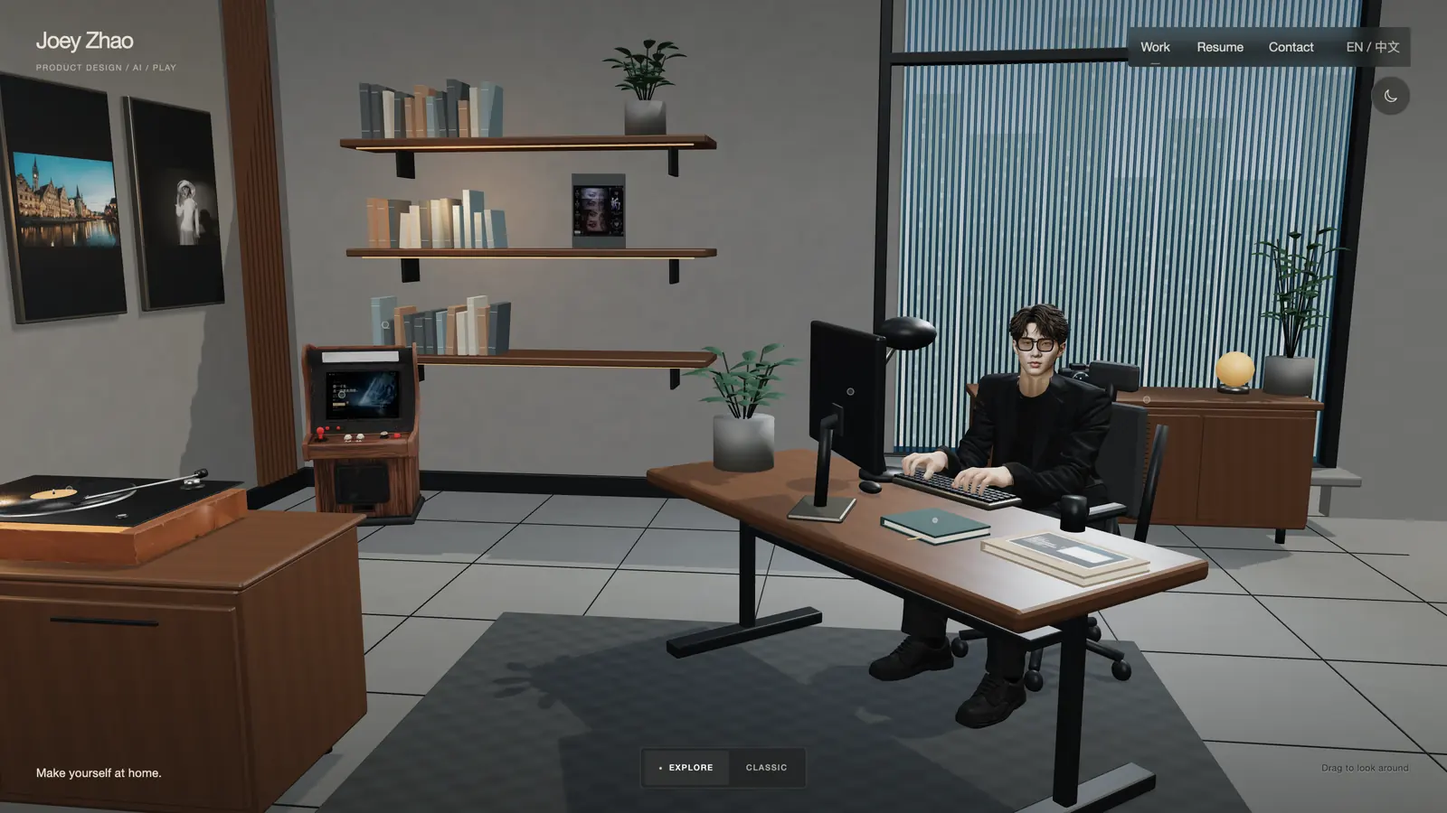
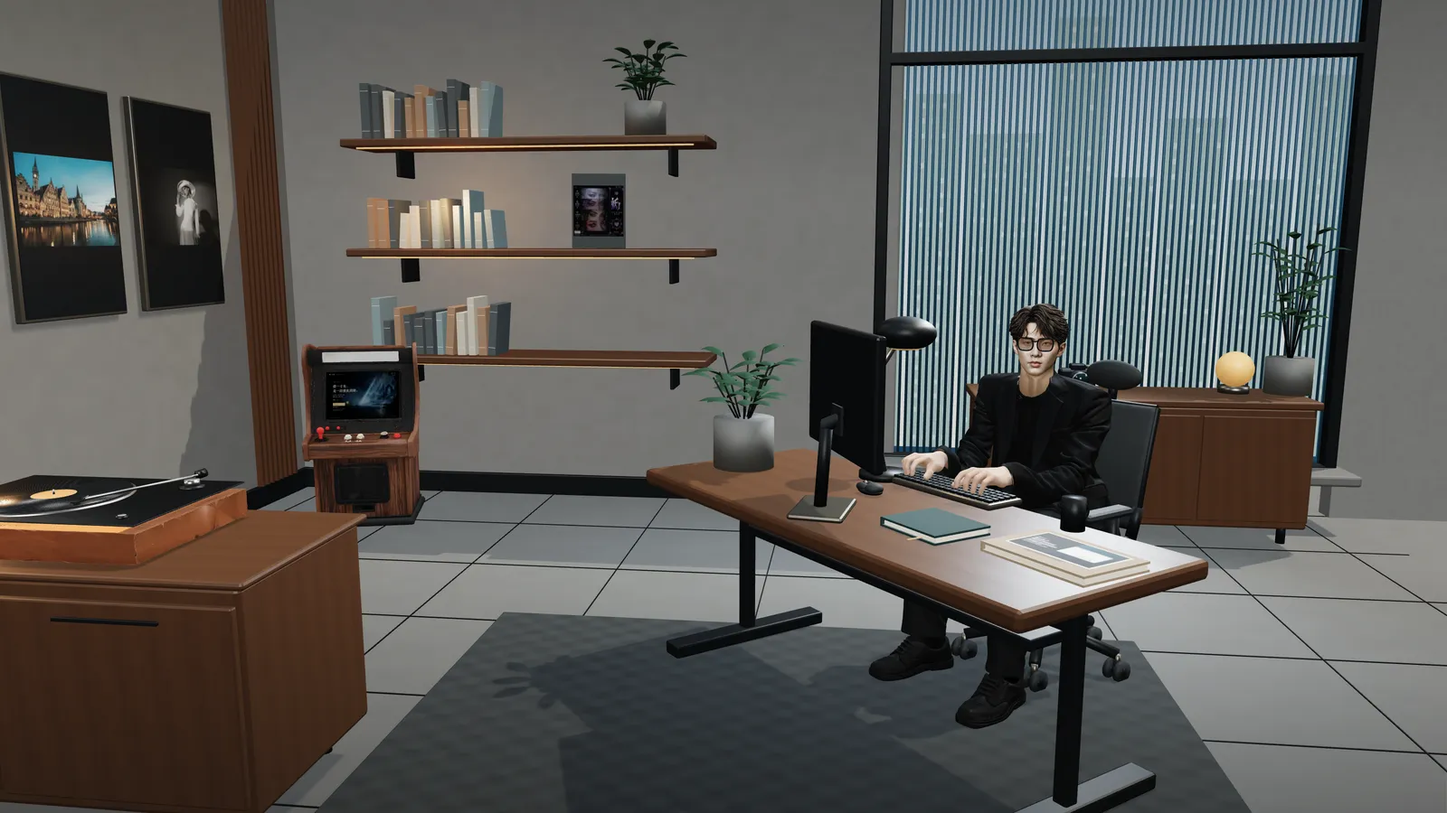
assets: swap joeyzhao.cc card thumbnail to daytime explore scene, bump ?v=2

diff --git a/index.html b/index.html
@@ -156,7 +156,7 @@
       </div>
     </a>
     <a class="door" href="/studio/" style="--accent:var(--studio)">
-      <div class="door-media framed" aria-hidden="true"><img class="is-on" src="/assets/site/img/joeyzhao-live.webp" alt="" fetchpriority="high" decoding="async"><img src="/assets/site/img/finfold-live.webp" alt="" loading="lazy" decoding="async"><img src="/assets/site/img/billvampire-live.webp" alt="" loading="lazy" decoding="async"></div>
+      <div class="door-media framed" aria-hidden="true"><img class="is-on" src="/assets/site/img/joeyzhao-live.webp?v=2" alt="" fetchpriority="high" decoding="async"><img src="/assets/site/img/finfold-live.webp" alt="" loading="lazy" decoding="async"><img src="/assets/site/img/billvampire-live.webp" alt="" loading="lazy" decoding="async"></div>
       <div class="door-top"><span class="label"><span class="dot s"></span>&nbsp; [B] Product Studio</span><span class="door-count">01 / 03</span></div>
       <div>
         <p class="door-for">给创业者与企业</p>
@@ -179,8 +179,8 @@
       <p class="lead" data-reveal>左边是我们自己设计、开发、上线的产品；右边是学员在导师带领下完成的作品集项目</p>
     </div>
     <div class="tabs" data-filter="#work-index" role="group" aria-label="筛选"><button data-f="all" aria-pressed="true">全部</button><button data-f="s" aria-pressed="false"><span class="dot s"></span>产品工作室</button><button data-f="a" aria-pressed="false"><span class="dot a"></span>作品集学院</button></div>
-    <div class="index" id="work-index"><a class="row" data-k="s" data-b="s" data-img="/assets/site/img/finfold-live.webp" href="https://finfold.app" target="_blank" rel="noopener" data-label="Finfold"><span class="row-n">01</span><span class="row-t">Finfold</span><span class="row-c">AI 营销 SaaS</span><span class="row-b"><span class="dot s"></span>工作室 · 自研</span><span class="row-y">2026</span><span class="row-a">↗</span></a><a class="row" data-k="a" data-b="a" data-img="/assets/work/sm/wearable-memory.webp" href="/academy/#gallery"><span class="row-n">02</span><span class="row-t">心理治疗可穿戴装置</span><span class="row-c">工业产品</span><span class="row-b"><span class="dot a"></span>学院 · 学员</span><span class="row-y">作品集</span><span class="row-a">↗</span></a><a class="row" data-k="s" data-b="s" data-img="/assets/site/img/billvampire-live.webp" href="https://billvampire.com" target="_blank" rel="noopener" data-label="BillVampire"><span class="row-n">03</span><span class="row-t">BillVampire</span><span class="row-c">AI 分账工具</span><span class="row-b"><span class="dot s"></span>工作室 · 自研</span><span class="row-y">2025</span><span class="row-a">↗</span></a><a class="row" data-k="a" data-b="a" data-img="/assets/work/sm/e-motorcycle.webp" href="/academy/#gallery"><span class="row-n">04</span><span class="row-t">电动摩托概念设计</span><span class="row-c">交通载具</span><span class="row-b"><span class="dot a"></span>学院 · 学员</span><span class="row-y">作品集</span><span class="row-a">↗</span></a><a class="row" data-k="a" data-b="a" data-img="/assets/work/sm/mars-research.webp" href="/academy/#gallery"><span class="row-n">05</span><span class="row-t">火星殖民居住研究</span><span class="row-c">建筑空间</span><span class="row-b"><span class="dot a"></span>学院 · 学员</span><span class="row-y">作品集</span><span class="row-a">↗</span></a><a class="row" data-k="s" data-b="s" data-img="/assets/site/img/joeyzhao-live.webp" href="https://joeyzhao.cc" target="_blank" rel="noopener" data-label="joeyzhao.cc"><span class="row-n">06</span><span class="row-t">joeyzhao.cc</span><span class="row-c">3D 交互网站</span><span class="row-b"><span class="dot s"></span>工作室 · 自研</span><span class="row-y">2025</span><span class="row-a">↗</span></a><a class="row" data-k="a" data-b="a" data-img="/assets/work/sm/dance-video-app.webp" href="/academy/#gallery"><span class="row-n">07</span><span class="row-t">舞蹈短视频剪辑 App</span><span class="row-c">交互体验</span><span class="row-b"><span class="dot a"></span>学院 · 学员</span><span class="row-y">作品集</span><span class="row-a">↗</span></a><a class="row" data-k="a" data-b="a" data-img="/assets/work/sm/zeon-identity.webp" href="/academy/#gallery"><span class="row-n">08</span><span class="row-t">ZEON 品牌识别</span><span class="row-c">视觉媒体</span><span class="row-b"><span class="dot a"></span>学院 · 学员</span><span class="row-y">作品集</span><span class="row-a">↗</span></a></div>
-    <div class="mosaic"><a class="tile w7" href="https://finfold.app" target="_blank" rel="noopener" data-label="Finfold" data-reveal><div class="tile-m" style="--r:1249/703"><img src="/assets/site/img/finfold-live.webp" width="1249" height="703" alt="Finfold" loading="lazy" decoding="async"></div><div class="tile-cap"><h3>Finfold — AI 营销 SaaS</h3><span class="label"><span class="dot s"></span>自研产品</span></div></a><a class="tile w5 push" href="/academy/#gallery" data-reveal><div class="tile-m" style="--r:900/601"><img src="/assets/work/sm/wearable-memory.webp" width="900" height="601" alt="心理治疗可穿戴装置" loading="lazy" decoding="async"></div><div class="tile-cap"><h3>心理治疗可穿戴装置</h3><span class="label"><span class="dot a"></span>学员作品 · 工业产品</span></div></a><a class="tile w5" href="/academy/#gallery" data-reveal><div class="tile-m" style="--r:900/685"><img src="/assets/work/sm/mars-research.webp" width="900" height="685" alt="火星殖民居住研究" loading="lazy" decoding="async"></div><div class="tile-cap"><h3>火星殖民居住研究</h3><span class="label"><span class="dot a"></span>学员作品 · 建筑空间</span></div></a><a class="tile w7 push" href="https://joeyzhao.cc" target="_blank" rel="noopener" data-label="joeyzhao.cc" data-reveal><div class="tile-m" style="--r:1600/900"><img src="/assets/site/img/joeyzhao-live.webp" width="1600" height="900" alt="joeyzhao.cc" loading="lazy" decoding="async"></div><div class="tile-cap"><h3>joeyzhao.cc — 3D 交互网站</h3><span class="label"><span class="dot s"></span>自研产品</span></div></a><a class="tile w6" href="https://billvampire.com" target="_blank" rel="noopener" data-label="BillVampire" data-reveal><div class="tile-m" style="--r:1266/712"><img src="/assets/site/img/billvampire-live.webp" width="1266" height="712" alt="BillVampire" loading="lazy" decoding="async"></div><div class="tile-cap"><h3>BillVampire — AI 分账工具</h3><span class="label"><span class="dot s"></span>自研产品</span></div></a><a class="tile w6 push" href="/academy/#gallery" data-reveal><div class="tile-m" style="--r:900/390"><img src="/assets/work/sm/e-motorcycle.webp" width="900" height="390" alt="电动摩托概念设计" loading="lazy" decoding="async"></div><div class="tile-cap"><h3>电动摩托概念设计</h3><span class="label"><span class="dot a"></span>学员作品 · 交通载具</span></div></a></div>
+    <div class="index" id="work-index"><a class="row" data-k="s" data-b="s" data-img="/assets/site/img/finfold-live.webp" href="https://finfold.app" target="_blank" rel="noopener" data-label="Finfold"><span class="row-n">01</span><span class="row-t">Finfold</span><span class="row-c">AI 营销 SaaS</span><span class="row-b"><span class="dot s"></span>工作室 · 自研</span><span class="row-y">2026</span><span class="row-a">↗</span></a><a class="row" data-k="a" data-b="a" data-img="/assets/work/sm/wearable-memory.webp" href="/academy/#gallery"><span class="row-n">02</span><span class="row-t">心理治疗可穿戴装置</span><span class="row-c">工业产品</span><span class="row-b"><span class="dot a"></span>学院 · 学员</span><span class="row-y">作品集</span><span class="row-a">↗</span></a><a class="row" data-k="s" data-b="s" data-img="/assets/site/img/billvampire-live.webp" href="https://billvampire.com" target="_blank" rel="noopener" data-label="BillVampire"><span class="row-n">03</span><span class="row-t">BillVampire</span><span class="row-c">AI 分账工具</span><span class="row-b"><span class="dot s"></span>工作室 · 自研</span><span class="row-y">2025</span><span class="row-a">↗</span></a><a class="row" data-k="a" data-b="a" data-img="/assets/work/sm/e-motorcycle.webp" href="/academy/#gallery"><span class="row-n">04</span><span class="row-t">电动摩托概念设计</span><span class="row-c">交通载具</span><span class="row-b"><span class="dot a"></span>学院 · 学员</span><span class="row-y">作品集</span><span class="row-a">↗</span></a><a class="row" data-k="a" data-b="a" data-img="/assets/work/sm/mars-research.webp" href="/academy/#gallery"><span class="row-n">05</span><span class="row-t">火星殖民居住研究</span><span class="row-c">建筑空间</span><span class="row-b"><span class="dot a"></span>学院 · 学员</span><span class="row-y">作品集</span><span class="row-a">↗</span></a><a class="row" data-k="s" data-b="s" data-img="/assets/site/img/joeyzhao-live.webp?v=2" href="https://joeyzhao.cc" target="_blank" rel="noopener" data-label="joeyzhao.cc"><span class="row-n">06</span><span class="row-t">joeyzhao.cc</span><span class="row-c">3D 交互网站</span><span class="row-b"><span class="dot s"></span>工作室 · 自研</span><span class="row-y">2025</span><span class="row-a">↗</span></a><a class="row" data-k="a" data-b="a" data-img="/assets/work/sm/dance-video-app.webp" href="/academy/#gallery"><span class="row-n">07</span><span class="row-t">舞蹈短视频剪辑 App</span><span class="row-c">交互体验</span><span class="row-b"><span class="dot a"></span>学院 · 学员</span><span class="row-y">作品集</span><span class="row-a">↗</span></a><a class="row" data-k="a" data-b="a" data-img="/assets/work/sm/zeon-identity.webp" href="/academy/#gallery"><span class="row-n">08</span><span class="row-t">ZEON 品牌识别</span><span class="row-c">视觉媒体</span><span class="row-b"><span class="dot a"></span>学院 · 学员</span><span class="row-y">作品集</span><span class="row-a">↗</span></a></div>
+    <div class="mosaic"><a class="tile w7" href="https://finfold.app" target="_blank" rel="noopener" data-label="Finfold" data-reveal><div class="tile-m" style="--r:1249/703"><img src="/assets/site/img/finfold-live.webp" width="1249" height="703" alt="Finfold" loading="lazy" decoding="async"></div><div class="tile-cap"><h3>Finfold — AI 营销 SaaS</h3><span class="label"><span class="dot s"></span>自研产品</span></div></a><a class="tile w5 push" href="/academy/#gallery" data-reveal><div class="tile-m" style="--r:900/601"><img src="/assets/work/sm/wearable-memory.webp" width="900" height="601" alt="心理治疗可穿戴装置" loading="lazy" decoding="async"></div><div class="tile-cap"><h3>心理治疗可穿戴装置</h3><span class="label"><span class="dot a"></span>学员作品 · 工业产品</span></div></a><a class="tile w5" href="/academy/#gallery" data-reveal><div class="tile-m" style="--r:900/685"><img src="/assets/work/sm/mars-research.webp" width="900" height="685" alt="火星殖民居住研究" loading="lazy" decoding="async"></div><div class="tile-cap"><h3>火星殖民居住研究</h3><span class="label"><span class="dot a"></span>学员作品 · 建筑空间</span></div></a><a class="tile w7 push" href="https://joeyzhao.cc" target="_blank" rel="noopener" data-label="joeyzhao.cc" data-reveal><div class="tile-m" style="--r:1600/900"><img src="/assets/site/img/joeyzhao-live.webp?v=2" width="1600" height="900" alt="joeyzhao.cc" loading="lazy" decoding="async"></div><div class="tile-cap"><h3>joeyzhao.cc — 3D 交互网站</h3><span class="label"><span class="dot s"></span>自研产品</span></div></a><a class="tile w6" href="https://billvampire.com" target="_blank" rel="noopener" data-label="BillVampire" data-reveal><div class="tile-m" style="--r:1266/712"><img src="/assets/site/img/billvampire-live.webp" width="1266" height="712" alt="BillVampire" loading="lazy" decoding="async"></div><div class="tile-cap"><h3>BillVampire — AI 分账工具</h3><span class="label"><span class="dot s"></span>自研产品</span></div></a><a class="tile w6 push" href="/academy/#gallery" data-reveal><div class="tile-m" style="--r:900/390"><img src="/assets/work/sm/e-motorcycle.webp" width="900" height="390" alt="电动摩托概念设计" loading="lazy" decoding="async"></div><div class="tile-cap"><h3>电动摩托概念设计</h3><span class="label"><span class="dot a"></span>学员作品 · 交通载具</span></div></a></div>
   </div>
   <div class="peek" aria-hidden="true"><img alt=""></div>
 </section>

diff --git a/en/index.html b/en/index.html
@@ -156,7 +156,7 @@
       </div>
     </a>
     <a class="door" href="/en/studio/" style="--accent:var(--studio)">
-      <div class="door-media framed" aria-hidden="true"><img class="is-on" src="/assets/site/img/joeyzhao-live.webp" alt="" fetchpriority="high" decoding="async"><img src="/assets/site/img/finfold-live.webp" alt="" loading="lazy" decoding="async"><img src="/assets/site/img/billvampire-live.webp" alt="" loading="lazy" decoding="async"></div>
+      <div class="door-media framed" aria-hidden="true"><img class="is-on" src="/assets/site/img/joeyzhao-live.webp?v=2" alt="" fetchpriority="high" decoding="async"><img src="/assets/site/img/finfold-live.webp" alt="" loading="lazy" decoding="async"><img src="/assets/site/img/billvampire-live.webp" alt="" loading="lazy" decoding="async"></div>
       <div class="door-top"><span class="label"><span class="dot s"></span>&nbsp; [B] Product Studio</span><span class="door-count">01 / 03</span></div>
       <div>
         <p class="door-for">For founders and companies</p>
@@ -179,8 +179,8 @@
       <p class="lead" data-reveal>Products we designed, built and shipped ourselves — alongside portfolio projects our students made with their mentors</p>
     </div>
     <div class="tabs" data-filter="#work-index" role="group" aria-label="Filter"><button data-f="all" aria-pressed="true">All</button><button data-f="s" aria-pressed="false"><span class="dot s"></span>Studio</button><button data-f="a" aria-pressed="false"><span class="dot a"></span>Academy</button></div>
-    <div class="index" id="work-index"><a class="row" data-k="s" data-b="s" data-img="/assets/site/img/finfold-live.webp" href="https://finfold.app" target="_blank" rel="noopener" data-label="Finfold"><span class="row-n">01</span><span class="row-t">Finfold</span><span class="row-c">AI marketing SaaS</span><span class="row-b"><span class="dot s"></span>Studio</span><span class="row-y">2026</span><span class="row-a">↗</span></a><a class="row" data-k="a" data-b="a" data-img="/assets/work/sm/wearable-memory.webp" href="/en/academy/#gallery"><span class="row-n">02</span><span class="row-t">Therapeutic wearable</span><span class="row-c">Product</span><span class="row-b"><span class="dot a"></span>Academy</span><span class="row-y">Student</span><span class="row-a">↗</span></a><a class="row" data-k="s" data-b="s" data-img="/assets/site/img/billvampire-live.webp" href="https://billvampire.com" target="_blank" rel="noopener" data-label="BillVampire"><span class="row-n">03</span><span class="row-t">BillVampire</span><span class="row-c">AI bill splitting</span><span class="row-b"><span class="dot s"></span>Studio</span><span class="row-y">2025</span><span class="row-a">↗</span></a><a class="row" data-k="a" data-b="a" data-img="/assets/work/sm/e-motorcycle.webp" href="/en/academy/#gallery"><span class="row-n">04</span><span class="row-t">Electric motorcycle concept</span><span class="row-c">Transportation</span><span class="row-b"><span class="dot a"></span>Academy</span><span class="row-y">Student</span><span class="row-a">↗</span></a><a class="row" data-k="a" data-b="a" data-img="/assets/work/sm/mars-research.webp" href="/en/academy/#gallery"><span class="row-n">05</span><span class="row-t">Mars habitation research</span><span class="row-c">Architecture</span><span class="row-b"><span class="dot a"></span>Academy</span><span class="row-y">Student</span><span class="row-a">↗</span></a><a class="row" data-k="s" data-b="s" data-img="/assets/site/img/joeyzhao-live.webp" href="https://joeyzhao.cc" target="_blank" rel="noopener" data-label="joeyzhao.cc"><span class="row-n">06</span><span class="row-t">joeyzhao.cc</span><span class="row-c">3D interactive site</span><span class="row-b"><span class="dot s"></span>Studio</span><span class="row-y">2025</span><span class="row-a">↗</span></a><a class="row" data-k="a" data-b="a" data-img="/assets/work/sm/dance-video-app.webp" href="/en/academy/#gallery"><span class="row-n">07</span><span class="row-t">Dance video editing app</span><span class="row-c">Interaction</span><span class="row-b"><span class="dot a"></span>Academy</span><span class="row-y">Student</span><span class="row-a">↗</span></a><a class="row" data-k="a" data-b="a" data-img="/assets/work/sm/zeon-identity.webp" href="/en/academy/#gallery"><span class="row-n">08</span><span class="row-t">ZEON brand identity</span><span class="row-c">Visual &amp; media</span><span class="row-b"><span class="dot a"></span>Academy</span><span class="row-y">Student</span><span class="row-a">↗</span></a></div>
-    <div class="mosaic"><a class="tile w7" href="https://finfold.app" target="_blank" rel="noopener" data-label="Finfold" data-reveal><div class="tile-m" style="--r:1249/703"><img src="/assets/site/img/finfold-live.webp" width="1249" height="703" alt="Finfold" loading="lazy" decoding="async"></div><div class="tile-cap"><h3>Finfold — AI marketing SaaS</h3><span class="label"><span class="dot s"></span>Own product</span></div></a><a class="tile w5 push" href="/en/academy/#gallery" data-reveal><div class="tile-m" style="--r:900/601"><img src="/assets/work/sm/wearable-memory.webp" width="900" height="601" alt="Therapeutic wearable" loading="lazy" decoding="async"></div><div class="tile-cap"><h3>Therapeutic wearable</h3><span class="label"><span class="dot a"></span>Student work · Product</span></div></a><a class="tile w5" href="/en/academy/#gallery" data-reveal><div class="tile-m" style="--r:900/685"><img src="/assets/work/sm/mars-research.webp" width="900" height="685" alt="Mars habitation research" loading="lazy" decoding="async"></div><div class="tile-cap"><h3>Mars habitation research</h3><span class="label"><span class="dot a"></span>Student work · Architecture</span></div></a><a class="tile w7 push" href="https://joeyzhao.cc" target="_blank" rel="noopener" data-label="joeyzhao.cc" data-reveal><div class="tile-m" style="--r:1600/900"><img src="/assets/site/img/joeyzhao-live.webp" width="1600" height="900" alt="joeyzhao.cc" loading="lazy" decoding="async"></div><div class="tile-cap"><h3>joeyzhao.cc — 3D interactive site</h3><span class="label"><span class="dot s"></span>Own product</span></div></a><a class="tile w6" href="https://billvampire.com" target="_blank" rel="noopener" data-label="BillVampire" data-reveal><div class="tile-m" style="--r:1266/712"><img src="/assets/site/img/billvampire-live.webp" width="1266" height="712" alt="BillVampire" loading="lazy" decoding="async"></div><div class="tile-cap"><h3>BillVampire — AI bill splitting</h3><span class="label"><span class="dot s"></span>Own product</span></div></a><a class="tile w6 push" href="/en/academy/#gallery" data-reveal><div class="tile-m" style="--r:900/390"><img src="/assets/work/sm/e-motorcycle.webp" width="900" height="390" alt="Electric motorcycle concept" loading="lazy" decoding="async"></div><div class="tile-cap"><h3>Electric motorcycle concept</h3><span class="label"><span class="dot a"></span>Student work · Transportation</span></div></a></div>
+    <div class="index" id="work-index"><a class="row" data-k="s" data-b="s" data-img="/assets/site/img/finfold-live.webp" href="https://finfold.app" target="_blank" rel="noopener" data-label="Finfold"><span class="row-n">01</span><span class="row-t">Finfold</span><span class="row-c">AI marketing SaaS</span><span class="row-b"><span class="dot s"></span>Studio</span><span class="row-y">2026</span><span class="row-a">↗</span></a><a class="row" data-k="a" data-b="a" data-img="/assets/work/sm/wearable-memory.webp" href="/en/academy/#gallery"><span class="row-n">02</span><span class="row-t">Therapeutic wearable</span><span class="row-c">Product</span><span class="row-b"><span class="dot a"></span>Academy</span><span class="row-y">Student</span><span class="row-a">↗</span></a><a class="row" data-k="s" data-b="s" data-img="/assets/site/img/billvampire-live.webp" href="https://billvampire.com" target="_blank" rel="noopener" data-label="BillVampire"><span class="row-n">03</span><span class="row-t">BillVampire</span><span class="row-c">AI bill splitting</span><span class="row-b"><span class="dot s"></span>Studio</span><span class="row-y">2025</span><span class="row-a">↗</span></a><a class="row" data-k="a" data-b="a" data-img="/assets/work/sm/e-motorcycle.webp" href="/en/academy/#gallery"><span class="row-n">04</span><span class="row-t">Electric motorcycle concept</span><span class="row-c">Transportation</span><span class="row-b"><span class="dot a"></span>Academy</span><span class="row-y">Student</span><span class="row-a">↗</span></a><a class="row" data-k="a" data-b="a" data-img="/assets/work/sm/mars-research.webp" href="/en/academy/#gallery"><span class="row-n">05</span><span class="row-t">Mars habitation research</span><span class="row-c">Architecture</span><span class="row-b"><span class="dot a"></span>Academy</span><span class="row-y">Student</span><span class="row-a">↗</span></a><a class="row" data-k="s" data-b="s" data-img="/assets/site/img/joeyzhao-live.webp?v=2" href="https://joeyzhao.cc" target="_blank" rel="noopener" data-label="joeyzhao.cc"><span class="row-n">06</span><span class="row-t">joeyzhao.cc</span><span class="row-c">3D interactive site</span><span class="row-b"><span class="dot s"></span>Studio</span><span class="row-y">2025</span><span class="row-a">↗</span></a><a class="row" data-k="a" data-b="a" data-img="/assets/work/sm/dance-video-app.webp" href="/en/academy/#gallery"><span class="row-n">07</span><span class="row-t">Dance video editing app</span><span class="row-c">Interaction</span><span class="row-b"><span class="dot a"></span>Academy</span><span class="row-y">Student</span><span class="row-a">↗</span></a><a class="row" data-k="a" data-b="a" data-img="/assets/work/sm/zeon-identity.webp" href="/en/academy/#gallery"><span class="row-n">08</span><span class="row-t">ZEON brand identity</span><span class="row-c">Visual &amp; media</span><span class="row-b"><span class="dot a"></span>Academy</span><span class="row-y">Student</span><span class="row-a">↗</span></a></div>
+    <div class="mosaic"><a class="tile w7" href="https://finfold.app" target="_blank" rel="noopener" data-label="Finfold" data-reveal><div class="tile-m" style="--r:1249/703"><img src="/assets/site/img/finfold-live.webp" width="1249" height="703" alt="Finfold" loading="lazy" decoding="async"></div><div class="tile-cap"><h3>Finfold — AI marketing SaaS</h3><span class="label"><span class="dot s"></span>Own product</span></div></a><a class="tile w5 push" href="/en/academy/#gallery" data-reveal><div class="tile-m" style="--r:900/601"><img src="/assets/work/sm/wearable-memory.webp" width="900" height="601" alt="Therapeutic wearable" loading="lazy" decoding="async"></div><div class="tile-cap"><h3>Therapeutic wearable</h3><span class="label"><span class="dot a"></span>Student work · Product</span></div></a><a class="tile w5" href="/en/academy/#gallery" data-reveal><div class="tile-m" style="--r:900/685"><img src="/assets/work/sm/mars-research.webp" width="900" height="685" alt="Mars habitation research" loading="lazy" decoding="async"></div><div class="tile-cap"><h3>Mars habitation research</h3><span class="label"><span class="dot a"></span>Student work · Architecture</span></div></a><a class="tile w7 push" href="https://joeyzhao.cc" target="_blank" rel="noopener" data-label="joeyzhao.cc" data-reveal><div class="tile-m" style="--r:1600/900"><img src="/assets/site/img/joeyzhao-live.webp?v=2" width="1600" height="900" alt="joeyzhao.cc" loading="lazy" decoding="async"></div><div class="tile-cap"><h3>joeyzhao.cc — 3D interactive site</h3><span class="label"><span class="dot s"></span>Own product</span></div></a><a class="tile w6" href="https://billvampire.com" target="_blank" rel="noopener" data-label="BillVampire" data-reveal><div class="tile-m" style="--r:1266/712"><img src="/assets/site/img/billvampire-live.webp" width="1266" height="712" alt="BillVampire" loading="lazy" decoding="async"></div><div class="tile-cap"><h3>BillVampire — AI bill splitting</h3><span class="label"><span class="dot s"></span>Own product</span></div></a><a class="tile w6 push" href="/en/academy/#gallery" data-reveal><div class="tile-m" style="--r:900/390"><img src="/assets/work/sm/e-motorcycle.webp" width="900" height="390" alt="Electric motorcycle concept" loading="lazy" decoding="async"></div><div class="tile-cap"><h3>Electric motorcycle concept</h3><span class="label"><span class="dot a"></span>Student work · Transportation</span></div></a></div>
   </div>
   <div class="peek" aria-hidden="true"><img alt=""></div>
 </section>

diff --git a/studio/index.html b/studio/index.html
@@ -270,7 +270,7 @@
         <div class="tile-m"><img src="/assets/site/img/billvampire-live.webp" width="1266" height="712" alt="BillVampire" loading="lazy" decoding="async"></div>
         <div class="proj-cap"><h3>BillVampire<span class="arr">↗</span></h3><p>拍一张小票，几秒完成分账，从设计、开发到上线，全栈独立交付</p><span class="label">AI 分账工具 · 2025</span></div>
       </a><a class="proj " href="https://joeyzhao.cc" target="_blank" rel="noopener" data-label="joeyzhao.cc" data-reveal>
-        <div class="tile-m"><img src="/assets/site/img/joeyzhao-live.webp" width="1600" height="900" alt="joeyzhao.cc" loading="lazy" decoding="async"></div>
+        <div class="tile-m"><img src="/assets/site/img/joeyzhao-live.webp?v=2" width="1600" height="900" alt="joeyzhao.cc" loading="lazy" decoding="async"></div>
         <div class="proj-cap"><h3>joeyzhao.cc<span class="arr">↗</span></h3><p>设计师 × 全栈开发者的个人站：实时 3D 场景，记录从概念到产品的全过程</p><span class="label">3D 交互网站 · 2025</span></div>
       </a></div>
     <div class="credits">

diff --git a/en/studio/index.html b/en/studio/index.html
@@ -270,7 +270,7 @@
         <div class="tile-m"><img src="/assets/site/img/billvampire-live.webp" width="1266" height="712" alt="BillVampire" loading="lazy" decoding="async"></div>
         <div class="proj-cap"><h3>BillVampire<span class="arr">↗</span></h3><p>Scan a receipt, split it in seconds. Designed, built and shipped end to end.</p><span class="label">AI bill splitting · 2025</span></div>
       </a><a class="proj " href="https://joeyzhao.cc" target="_blank" rel="noopener" data-label="joeyzhao.cc" data-reveal>
-        <div class="tile-m"><img src="/assets/site/img/joeyzhao-live.webp" width="1600" height="900" alt="joeyzhao.cc" loading="lazy" decoding="async"></div>
+        <div class="tile-m"><img src="/assets/site/img/joeyzhao-live.webp?v=2" width="1600" height="900" alt="joeyzhao.cc" loading="lazy" decoding="async"></div>
         <div class="proj-cap"><h3>joeyzhao.cc<span class="arr">↗</span></h3><p>A designer-developer&#x27;s home on the web: a real-time 3D scene documenting concept to product.</p><span class="label">3D interactive site · 2025</span></div>
       </a></div>
     <div class="credits">
